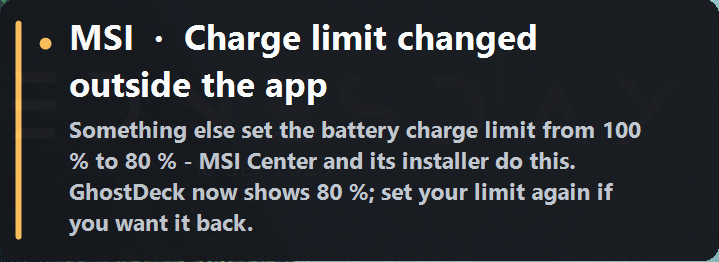
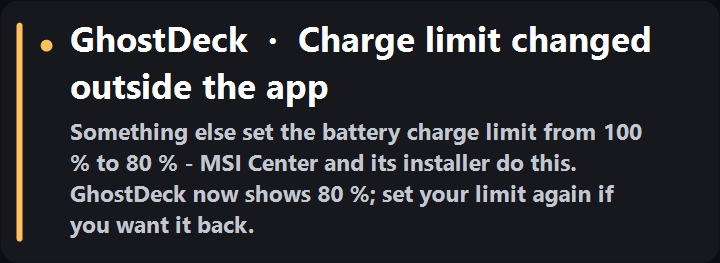
Docs before 1.37: README catch-up, changelog wording and credits, section order
README: the startup profile, the mouse actions of the tray temperature icons,
--turbo in the CLI block, the .NET runtime requirement stated once and
correctly, the Vector 17 HX A14V named as the second confirmed board (same EC
layout, different board); the toast screenshot shows the current title and
the firmware guard card joins the gallery.

CHANGELOG: bullets that spoke of "the next release" now describe this one,
one Fixed heading instead of two, two credits recorded in the signed
database (#207, #220, #223) listed.

TECHNICAL: section 70 before section 71, both tagged v1.37.

diff --git a/README.md b/README.md
@@ -18,7 +18,7 @@ A lightweight, **independent** Windows **tray app** to switch MSI laptop power p
 
 Built because **MSI Center 2.0 removed the _Silent_ profile**. This app talks to the Embedded Controller (EC) through MSI's own **WMI interface**, carried by Windows' built-in ACPI driver - **no kernel driver, no disabling of Windows security** - and it does not need MSI Center running. One prerequisite on a freshly installed Windows: MSI Center must be installed **once** to deploy the MSI WMI schema Windows needs (it can be uninstalled afterwards) - see **[docs/MSI-WMI-SCHEMA.md](docs/MSI-WMI-SCHEMA.md)**.
 
-> ⚠ **Hardware-specific.** Developed and tested on **MSI Raider GE78HX 13V** (board MS-17S1, i9-13950HX, EC firmware `17S1IMS1.114`), and confirmed by an owner on the **GE78 HX 14V** (`17S2IMS2`, same board). EC registers are model/firmware-specific - read [docs/TECHNICAL.md](docs/TECHNICAL.md) before trying it on another model. **Use at your own risk.**
+> ⚠ **Hardware-specific.** Developed and tested on **MSI Raider GE78HX 13V** (board MS-17S1, i9-13950HX, EC firmware `17S1IMS1.114`), and confirmed by owners on the **Vector 17 HX A14V** (`17S2IMS2`, a different board with the same EC layout). EC registers are model/firmware-specific - read [docs/TECHNICAL.md](docs/TECHNICAL.md) before trying it on another model. **Use at your own risk.**
 
 📋 **156 MSI models recognised** - **48 models confirmed on real hardware** by their owners (GE78HX/Vector boards, Raider GE78 HX 14VHG, Raider 16 Max HX B2WJ, Prestige 14 AI Studio, Prestige 16 Studio / Summit E16 Flip, Katana GF66 12U / Sword 15 A12UC, Stealth 14 Studio A13VF, Stealth 16 Studio A13VG, Raider GE68 HX / Vector 16 HX A13V, Crosshair 15 B12U, Crosshair A16 HX, Crosshair 16 HX AI, Crosshair 17 HX AI, Crosshair 18 HX AI, Sword 16 HX, Sword 17 HX B14VGKG, GE67 HX, GE66 Raider / GP66 Leopard, both Cyborg 15s, Cyborg A15 AI, both GF63 Thins, Raider GE76 12UE/12UGS, GE76 Raider 11U / GP76 Leopard 11UG, Raider A18 HX, Vector A18 HX, Vector 16 HX AI / Raider 16 HX AI, Vector A16 HX A8WIG, Titan 18 HX Dragon, Bravo 15 B7ED, Bravo 17, Katana GF66 11U, Pulse/Katana 17 B13V, Katana 15 HX B14W, Modern 14 C12M, Pulse 16 AI C1V, Pulse 17 AI C1V, Pulse A16 AI+ C3HWFKG, Creator M16 / Pulse 15 / Katana 15 B13 / Crosshair 16 A13V, Creator M14 A13VE, Alpha 17 C7VF/C7VG, Thin 15 B12U, Vector 17 HX AI A2XWHG, Summit E14 Flip Evo / Prestige 14 H, Stealth 16 AI+ B3W, Stealth A16 AI+ A3XWHG, Stealth 18 HX AI A2XW), the rest are experimental (opt-in). See the **[full supported-models list](docs/SUPPORTED_MODELS.md)**, or browse it live in the app's **Models** tab.
 
@@ -37,7 +37,7 @@ Built because **MSI Center 2.0 removed the _Silent_ profile**. This app talks to
 - 🎬 **Scenes** - one-click macros that set any mix of **profile + fan-curve preset + refresh rate + screen brightness + HDR + overlay + charge limit + keyboard backlight + webcam + Windows-key lock + touchpad + Fan Boost** in a single stroke ("Gaming": Extreme, 240 Hz, 80 % brightness, HDR on · "Work": Silent, 60 Hz, 45 %, HDR off). Run them from cards on the Scenarios tab, the tray menu, a **per-scene hotkey**, the tray scroll wheel or the CLI (`--scene "Name"`); an example set is one click away
 - ⏰ **Scene schedule** - different settings for **work hours, nights and weekends**: rules (weekdays + a time window, overnight ranges fine) apply a scene when the window starts, also right after boot. Edge-triggered, so your manual tweaks inside a window are respected; first matching rule wins (Settings → Automation)
 - 🔋 **Battery-level rules** - e.g. **below 30 % → Super Battery, above 80 % → Balanced**: two direction-aware thresholds (the low one fires while discharging, the high one while charging, once per crossing), each running any profile or scene (Settings → Power)
-- 🌡 **Temperature in the tray** *(opt-in)* - show CPU and/or GPU temperature as their own icons next to the profile ghost, with your own warning / hot thresholds and colours
+- 🌡 **Temperature in the tray** *(opt-in)* - show CPU and/or GPU temperature as their own icons next to the profile ghost, with your own warning / hot thresholds and colours; the temperature icons answer the mouse exactly like the main icon (click, middle-click, wheel, the same right-click menu)
 - 🖱 **Tray-icon mouse actions** - **scroll the wheel** over the tray icon to switch profiles (or scenes / backlight), **middle-click** for Fan Boost; left, middle and wheel are all configurable in Settings (open a tab, toggle overlay, panic reset, …)
 - ⌨ Global, **rebindable** hotkeys (default `Ctrl+Alt+F1–F4`, `Ctrl+Alt+P` = cycle)
 - 💡 **Keyboard-backlight level** (off / low / mid / high) on supported models (single-colour keyboards, per msi-ec's register map; per-key RGB laptops keep their own Fn key - [why](docs/LIGHTING.md)) - a brick on Scenarios, a cycle hotkey, a wheel mode, a CLI switch and a scene field; follows the Fn key
@@ -70,7 +70,7 @@ Built because **MSI Center 2.0 removed the _Silent_ profile**. This app talks to
 - 🩺 **One-click diagnostic package** (Settings → System) - a single zip with a read-only EC dump, settings, change history and error log, ready to attach to a bug report; no personal data involved
 - 📊 **Power test** (Report / verify ⚑ → Power test) - measures your profiles instead of asking you to judge them by ear. The same load runs **on the processor and the discrete graphics chip** in Silent, Balanced and Extreme while temperatures, fan speed, fan RPM, clock and the work the processor actually completes are sampled every second, so a model report carries a comparison table rather than impressions - and a profile that only lifts a budget the two chips **share** shows up too, which a CPU-only load cannot see. The **baseline is measured twice** (Balanced opens and closes the run), so a run carried by heat soak or running order reports its own drift instead of pretending. On boards whose entry records a **fourth performance value** (the switch some MSI Center versions put inside the top scenario) it also probes whether that value can be set from outside, reading the register back after the write and again after the revert. Every address it may touch is listed before you start, it needs mains power and your consent, and your profile is restored at the end. Takes about seven minutes. Unlike the other two report wizards it does **not** need MSI Center - and the whole Report page now opens on a **start screen** that says what each of the three tests answers and what it needs
 - 🔌 Optional **auto-switch** on AC / battery (off by default, so it won't fight MSI software)
-- ♻ **Startup / wake restore** *(opt-in, Settings → Power)* - the EC resets to factory state on every cold boot (and sometimes wakes in Super Battery on its own); GhostDeck can re-assert both your **profile** and your **custom fan curve** a few seconds after startup and resume, so the machine always comes back exactly as you left it
+- ♻ **Startup / wake restore** *(opt-in, Settings → Power)* - the EC resets to factory state on every cold boot (and sometimes wakes in Super Battery on its own); GhostDeck can re-assert both your **profile** and your **custom fan curve** a few seconds after startup and resume, so the machine always comes back exactly as you left it. **Startup profile**: keep "last used", or pick one fixed profile that every app start applies (waking from sleep still returns the profile you had)
 - 🖥 **Refresh-rate auto-switch** *(opt-in)* - drop the panel to 60 Hz on battery and jump back to 144/240 Hz on AC, automatically; pickers list only the modes your panel reports and always target the **built-in panel**, even with an external monitor set as primary. Pure Windows display API, so it works on **every** laptop - even unrecognised models
 - 🔋 **Battery charge limit** - the three presets MSI offers (60 / 80 / 100 %) plus **any value from 20 to 100 %** on a slider - with a **travel mode** - one click charges to 100 % for a trip and the previous limit returns automatically after 3-30 days - plus a **battery health panel** (design vs full-charge capacity, wear %, charge cycles) in Settings → Power
 - 🚀 **Start with Windows** (elevated scheduled task - no UAC nag at logon)
@@ -175,8 +175,8 @@ GhostDeck is a small, focused tool - it deliberately does one thing (power/fan p
 | **Windows power** - the CPU turbo boost switch with the saved values in plain view, the Windows power mode as four segments, and *Restore Windows settings* naming what comes back | **Profile mapping** - which Windows power mode each profile selects while *Auto: profile* is on |
 | ![Apex switch](docs/images/apex_scenario.png) | ![Apex, first enable](docs/images/apex_modal.png) |
 | **Apex switch** - on boards with a fourth performance value the Extreme tile carries its own toggle | **Apex, first enable** - one card explains what Apex is and what the switch does before it is turned on for the first time |
-| ![Wrapped OSD toast](docs/images/osd_wrapped_toast.png) | |
-| **Notifications that explain themselves** - when something outside the app changes a setting (here: the battery charge limit), the toast says what happened, who does that, and what to do; long messages wrap instead of stretching across the screen | |
+| ![Wrapped OSD toast](docs/images/osd_wrapped_toast.png) | ![Firmware guard](docs/images/firmware_guard.png) |
+| **Notifications that explain themselves** - when something outside the app changes a setting (here: the battery charge limit), the toast says what happened, who does that, and what to do; long messages wrap instead of stretching across the screen | **Firmware guard** - after a BIOS update changes the EC firmware version the app pauses its automatic writes and says so in one card, with the way back |
 
 ## Download
 
@@ -185,7 +185,7 @@ It's a single file, no install. GhostDeck 1.35.0+ requires the **[.NET 8 Desktop
 
 > **Upgrading from v1.34.x or earlier?** Install v1.35.0 by hand. The release file is named differently now, so the in-app updater in older versions opens this page instead of replacing your copy.
 
-**Requirements:** Windows 11 or Windows 10, **64-bit (x64) only** - there is no 32-bit or ARM64 build. No .NET install needed (the runtime ships inside the exe). Profile, fan and EC features need an **MSI laptop**; on any other machine, or on an unrecognised firmware, the app starts read-only.
+**Requirements:** Windows 11 or Windows 10, **64-bit (x64) only** - there is no 32-bit or ARM64 build. Needs the .NET 8 Desktop Runtime (x64), see above. Profile, fan and EC features need an **MSI laptop**; on any other machine, or on an unrecognised firmware, the app starts read-only.
 
 ### Digitally signed releases
 
@@ -252,6 +252,7 @@ GhostDeck.exe --scene "Gaming"        # apply a saved scene (needs the app runni
 GhostDeck.exe --refresh max           # panel refresh rate (a number or "max"; any laptop)
 GhostDeck.exe --charge 80             # battery charge limit (20-100, "off" = stop managing)
 GhostDeck.exe --travel 7              # charge to 100% for a trip; the previous limit returns after 7 days ("off" = end now)
+GhostDeck.exe --turbo off             # CPU turbo boost via the Windows power plan (on / off / status; any laptop)
 GhostDeck.exe --brightness 45         # internal-panel brightness (any laptop)
 GhostDeck.exe --hdr on                # HDR / advanced color (HDR-capable displays)
 GhostDeck.exe --touchpad off          # precision touchpad, device level (any laptop)

diff --git a/docs/TECHNICAL.md b/docs/TECHNICAL.md
@@ -2759,7 +2759,57 @@ measured whether every firmware honours them exactly - the honest position, not 
 threshold (from the scene being edited or from the current setting). Without that, saving a scene
 would silently round a custom limit down to a preset.
 
-## 71. The Windows power card: turbo boost and the Windows power mode (discussion #141)
+## 70. The Apex switch: the fourth mode becomes a feature (v1.37, issue #226)
+
+Section 60.2 introduced the fourth shift value as data plus a probe, and §60.3's probe existed to
+answer whether writing it from outside the vendor software changes anything measurable. On the
+first boards it reached, the answer was "only the fans". Issue #226 (Raider 16 Max HX B2WJ,
+`2651EMS1`, RTX 5090) delivered the first other answer: with the fourth value written, delivered
+work came in at **+34 % over Balanced at the same 98 °C ceiling**, against +16 % for plain
+Extreme, with a 0 % baseline drift - the fourth value outruns the turbo one on that board. That
+measurement is what unblocks writing it as a feature.
+
+### 70.1 Shape: a modifier on Extreme, not a fifth profile
+
+`Ec.GetCurrent` already maps the fourth value to `Extreme` (§60.2), the vendor software presents
+it as a switch inside its top scenario, and the value sits on top of the turbo state rather than
+beside it. The feature keeps that shape: a **toggle row on the Extreme tile** (Scenarios), not a
+fifth tile. While the toggle is on, the Extreme recipe is rewritten at apply time -
+`TrayContext.EffectiveRecipe` substitutes the model's `FourthMode.ShiftValue` for the shift-mode
+byte, and only that byte; every other recipe byte and every other profile is untouched. The OSD
+and the tile carry an "APEX" badge while it is on, so the state is never silent.
+
+This buys three things a fifth profile would lose: the hotkeys, scenes, CLI, auto-switch rules and
+battery rules all keep working unchanged (they say "Extreme" and get Extreme-with-Apex when the
+switch is on); the 3 s poll needs no new state (the fourth value already reads back as Extreme);
+and a **panic reset needs no new path** - it applies plain Balanced, which never carries the
+substitution.
+
+### 70.2 Consent and persistence
+
+The switch is per model, `AppSettings.ApexFw`, a list of firmware prefixes mirroring the
+`ExperimentalWriteFw` pattern - a settings file moved to another machine does not silently arm
+Apex there. The very first enable anywhere shows a one-time explainer card (`ApexConfirmed`) in
+the app's own card style (RENDERING.md §11, scan tag `//APEX`): louder and hotter for certain,
+faster only where measured, the Power test measures it as its own step, and the switch stays
+until turned off. Enabling or disabling writes a change-history entry, and when Extreme is the
+active profile the rewrite is applied immediately rather than on the next switch.
+
+The tile row also carries a help dot whose bubble gives the same explanation outside the consent
+moment, because the one-time card is by definition gone when the question comes back a month
+later.
+
+### 70.3 Availability
+
+The row appears on every board whose model entry carries a `fourthMode` (six at the time of
+writing, via the signed model database - no release needed to add one). It is deliberately **not**
+gated on a per-board measured verdict: the write is the same register the vendor software itself
+uses for its top scenario, the probe showed refusal is answered by a readback rather than by
+harm, and the Power test exists precisely so an owner can measure their own board instead of
+trusting a table.
+>>>>>>> origin/main
+
+## 71. The Windows power card: turbo boost and the Windows power mode (v1.37, discussion #141)
 
 Two controls that touch no EC register at all: both drive documented user-mode Windows power
 APIs (`powrprof.dll`, `Core/PowerPlan.cs`), so the card works even on firmware the EC side does
@@ -2849,53 +2899,3 @@ width) raises `ContentHeightChanged`, which runs one page layout.
 
 CLI: `--turbo <on|off|status>`, forwarded to the running instance or executed one-shot; output
 stays English like the rest of the CLI.
-
-## 70. The Apex switch: the fourth mode becomes a feature (v1.37, issue #226)
-
-Section 60.2 introduced the fourth shift value as data plus a probe, and §60.3's probe existed to
-answer whether writing it from outside the vendor software changes anything measurable. On the
-first boards it reached, the answer was "only the fans". Issue #226 (Raider 16 Max HX B2WJ,
-`2651EMS1`, RTX 5090) delivered the first other answer: with the fourth value written, delivered
-work came in at **+34 % over Balanced at the same 98 °C ceiling**, against +16 % for plain
-Extreme, with a 0 % baseline drift - the fourth value outruns the turbo one on that board. That
-measurement is what unblocks writing it as a feature.
-
-### 70.1 Shape: a modifier on Extreme, not a fifth profile
-
-`Ec.GetCurrent` already maps the fourth value to `Extreme` (§60.2), the vendor software presents
-it as a switch inside its top scenario, and the value sits on top of the turbo state rather than
-beside it. The feature keeps that shape: a **toggle row on the Extreme tile** (Scenarios), not a
-fifth tile. While the toggle is on, the Extreme recipe is rewritten at apply time -
-`TrayContext.EffectiveRecipe` substitutes the model's `FourthMode.ShiftValue` for the shift-mode
-byte, and only that byte; every other recipe byte and every other profile is untouched. The OSD
-and the tile carry an "APEX" badge while it is on, so the state is never silent.
-
-This buys three things a fifth profile would lose: the hotkeys, scenes, CLI, auto-switch rules and
-battery rules all keep working unchanged (they say "Extreme" and get Extreme-with-Apex when the
-switch is on); the 3 s poll needs no new state (the fourth value already reads back as Extreme);
-and a **panic reset needs no new path** - it applies plain Balanced, which never carries the
-substitution.
-
-### 70.2 Consent and persistence
-
-The switch is per model, `AppSettings.ApexFw`, a list of firmware prefixes mirroring the
-`ExperimentalWriteFw` pattern - a settings file moved to another machine does not silently arm
-Apex there. The very first enable anywhere shows a one-time explainer card (`ApexConfirmed`) in
-the app's own card style (RENDERING.md §11, scan tag `//APEX`): louder and hotter for certain,
-faster only where measured, the Power test measures it as its own step, and the switch stays
-until turned off. Enabling or disabling writes a change-history entry, and when Extreme is the
-active profile the rewrite is applied immediately rather than on the next switch.
-
-The tile row also carries a help dot whose bubble gives the same explanation outside the consent
-moment, because the one-time card is by definition gone when the question comes back a month
-later.
-
-### 70.3 Availability
-
-The row appears on every board whose model entry carries a `fourthMode` (six at the time of
-writing, via the signed model database - no release needed to add one). It is deliberately **not**
-gated on a per-board measured verdict: the write is the same register the vendor software itself
-uses for its top scenario, the probe showed refusal is answered by a readback rather than by
-harm, and the Power test exists precisely so an owner can measure their own board instead of
-trusting a table.
->>>>>>> origin/main

diff --git a/CHANGELOG.md b/CHANGELOG.md
@@ -17,6 +17,13 @@ Format loosely based on [Keep a Changelog](https://keepachangelog.com/).
   full-sentence message in a wordier language spanned the display. The toast now caps its
   width and wraps the text into more lines instead, growing downwards; short messages look
   exactly as before.
+- **Power test: the "machine was not idle" check now scales with the processor**
+  ([#146](../../issues/146)) - the bar was a fixed 85 % share of the machine, which a clean
+  run can only reach on CPUs with enough logical processors (the load deliberately leaves two
+  of them free for the controller reads). On a 12-thread machine an idle run reads exactly
+  83 % and could never pass, so every report was flagged busy. The bar now sits five points
+  below the share a clean run gets on that processor, and the warning prints that expected
+  share next to the measured ones.
 
 ### Added
 - **Windows power card: a CPU turbo boost switch and the Windows power mode in Settings**
@@ -92,7 +99,7 @@ Format loosely based on [Keep a Changelog](https://keepachangelog.com/).
   from msi-ec, registered from an owner's per-scenario capture: Balanced, Extreme and the
   eco state confirmed 1:1 with the family standard. His idle capture also proves the
   16-bit fan-tachometer pairs directly (non-zero high bytes at ~1530 rpm), so live RPM
-  arrives with the next release. Recognition grows to 155 firmware ids.
+  is on from this release (the 16-bit reader below). Recognition grows to 155 firmware ids.
 - **The firmware guard now explains itself in a dialog** ([#212](../../issues/212), thanks
   @Acoustichayes) - when the EC firmware version changes (usually a BIOS update), the app
   pauses automatic writes until the owner confirms the machine still behaves. That state
@@ -178,8 +185,8 @@ Format loosely based on [Keep a Changelog](https://keepachangelog.com/).
   two-byte divisor pair at `0xC8:0xC9` / `0xCA:0xCB`; every earlier capture sat above
   ~1870 rpm, where the two formats read identically, and an idle Status screenshot settled
   it (a "7353 rpm" reading at 20% fan duty is the pair's low byte alone - the real value is
-  ~1489 rpm). Until the next release the app shows no RPM on this model rather than
-  misreading half of the pair; the 16-bit readout ships with the next release.
+  ~1489 rpm). The 16-bit reader in this release shows the real value; older app versions show
+  no RPM on this model rather than misreading half of the pair.
 - **MSI GE76 Raider 11U / 11UH / GP76 Leopard 11UG (`17K3EMS1`) promoted to tested**
   ([#200](../../issues/200), thanks @ezn24) - a clean power test: 1% drift, Silent at 91%
   of Balanced's work on far slower fans (~2800 rpm against 3571/3874), Extreme at +14%,
@@ -235,8 +242,8 @@ Format loosely based on [Keep a Changelog](https://keepachangelog.com/).
   safety fuse ended the run (a thermally tight chassis, noted in the entry - the protection
   worked as designed). His curve capture sits byte for byte at the shipped addresses on
   both fans, and it also pins the tachometer format: the board reports fan speed as
-  two-byte pairs, so the RPM readout arrives with the release that ships the 16-bit
-  reader. 40 models tested.
+  two-byte pairs, so the RPM readout comes from the 16-bit reader this release
+  ships. 40 models tested.
 - **MSI Stealth 16 AI+ (`2631EMS1`) promoted to tested, and a second retail name: B3WH**
   ([#185](../../issues/185)-[#189](../../issues/189), thanks @AiM-lab-owl, who joins
   @SteppinStone on the entry's credit) - a second owner's clean power test (0% drift) shows
@@ -245,6 +252,12 @@ Format loosely based on [Keep a Changelog](https://keepachangelog.com/).
   mode: accepted, correctly reverted, and performing like Extreme, so the app's Extreme
   recipe stays at the standard turbo value - the same verdict as on the Vector 16 HX AI.
   39 models tested.
+- **Vector 16 HX AI / Raider 16 HX AI (`15M3EMS1`): @girfli joins the entry's credit**
+  ([#207](../../issues/207)) - one more owner's report set for this board; the entry itself
+  is unchanged.
+- **Cyborg 15 (`15K1IMS1`): @qq588849 joins the entry's credit** ([#220](../../issues/220),
+  [#223](../../issues/223)) - the standard recipes re-confirmed one to one on firmware .109,
+  with two hardware checks.
 - **Katana 15 HX (`1587EMS1`): @sensini82 joins the entry's credit** ([#192](../../issues/192),
   [#193](../../issues/193)) - a fourth report set for this board: recipes re-confirmed per
   scenario, and a power test with Extreme at +45% and a genuine Silent cap.
@@ -265,8 +278,8 @@ Format loosely based on [Keep a Changelog](https://keepachangelog.com/).
 - **Katana 15 B12V board (`1585EMS2`): fan RPM enabled as 16-bit pairs, and a fourth retail
   name, B12UDXK** ([#184](../../issues/184)) - an owner's full dump set re-confirms the
   standard recipes with a real Silent column; the tachometers follow the sibling
-  `1585EMS1`'s two-byte format, so the readout arrives with the release that ships the
-  16-bit reader. His machine is a Katana 15 B12UDXK on the same firmware, so the entry now
+  `1585EMS1`'s two-byte format, so the readout comes from the 16-bit reader this release
+  ships. His machine is a Katana 15 B12UDXK on the same firmware, so the entry now
   carries that name too.
 - **Creator M16 / Pulse 15 / Katana 15 B13 board (`1585EMS1`) gains a fourth retail name:
   Crosshair 16 A13V** ([#190](../../issues/190), thanks @GabrielGby, who joins the entry's
@@ -298,7 +311,7 @@ Format loosely based on [Keep a Changelog](https://keepachangelog.com/).
   exceptionally thorough report set: standard recipes confirmed per scenario (his own
   read-only captures, scenario changes verified), the `C5` Apex fourth mode recorded for the
   power test to probe, the test curve byte for byte at the shipped address, one physical fan,
-  and a 16-bit tachometer pair that turns on with the next release. 150 models recognised.
+  and a 16-bit tachometer pair, read from this release on. 150 models recognised.
 - **MSI Vector 17 HX AI A2XWHG (`17S3EMS1`) promoted to tested** ([#171](../../issues/171),
   thanks @A7GoD) - the owner's snapshot matches the standard recipes byte for byte with a real
   Silent column, and all three hardware checks are confirmed. 37 models tested.
@@ -419,14 +432,6 @@ Format loosely based on [Keep a Changelog](https://keepachangelog.com/).
   fans (3023 vs 3950 rpm), Extreme +8 % with the fans opened to ~6125 rpm, and every phase
   reading its bytes back intact at 4 % drift. The first two runs were disturbed mid-measurement
   (the repeat phase read back an eco shift) and were not scored. 29 models tested.
-### Fixed
-- **Power test: the "machine was not idle" check now scales with the processor**
-  ([#146](../../issues/146)) - the bar was a fixed 85 % share of the machine, which a clean
-  run can only reach on CPUs with enough logical processors (the load deliberately leaves two
-  of them free for the controller reads). On a 12-thread machine an idle run reads exactly
-  83 % and could never pass, so every report was flagged busy. The bar now sits five points
-  below the share a clean run gets on that processor, and the warning prints that expected
-  share next to the measured ones.
 
 ## [1.36.0] - 2026-08-24
 ### Added
